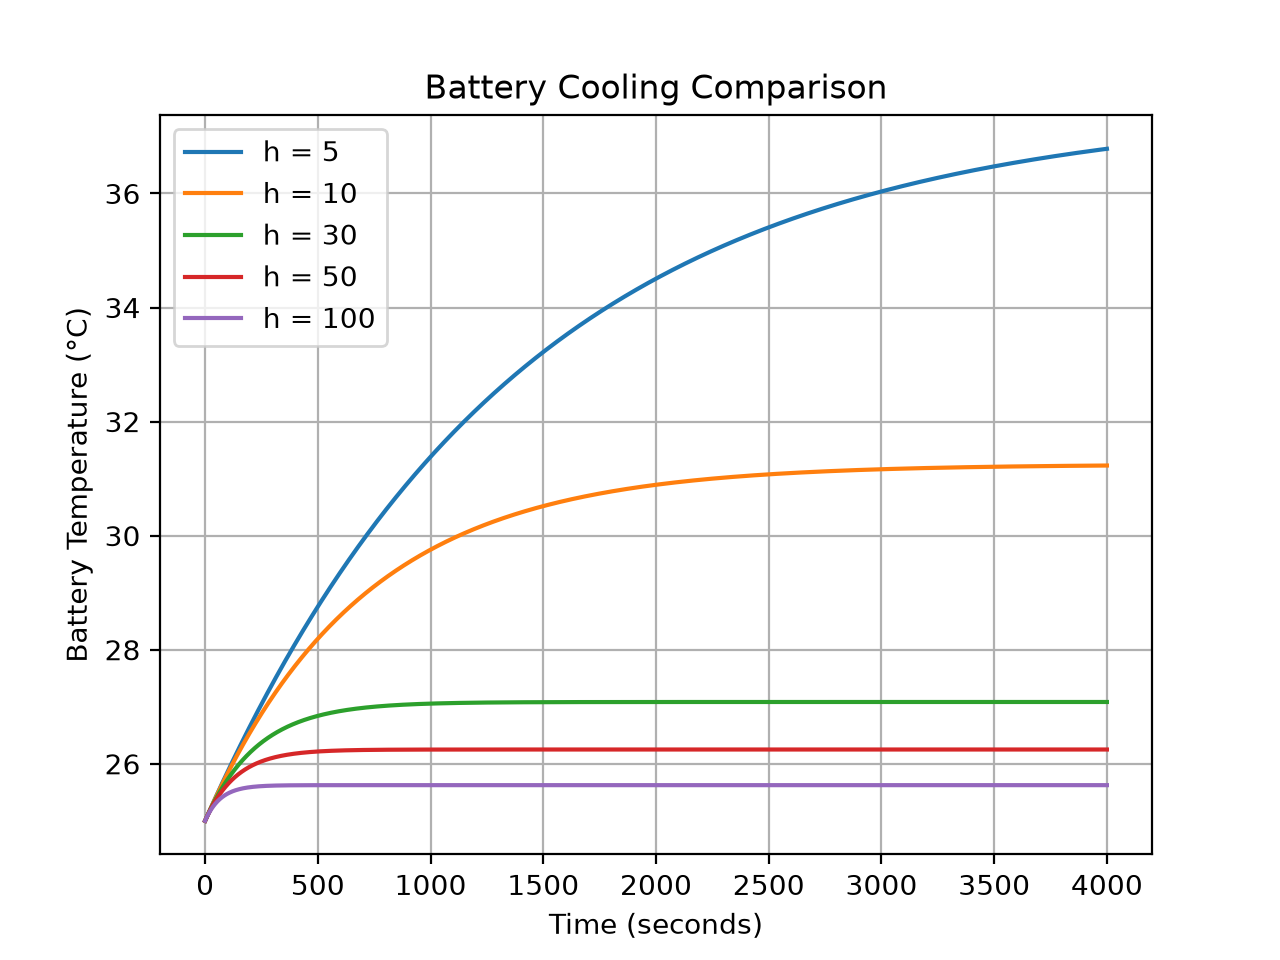
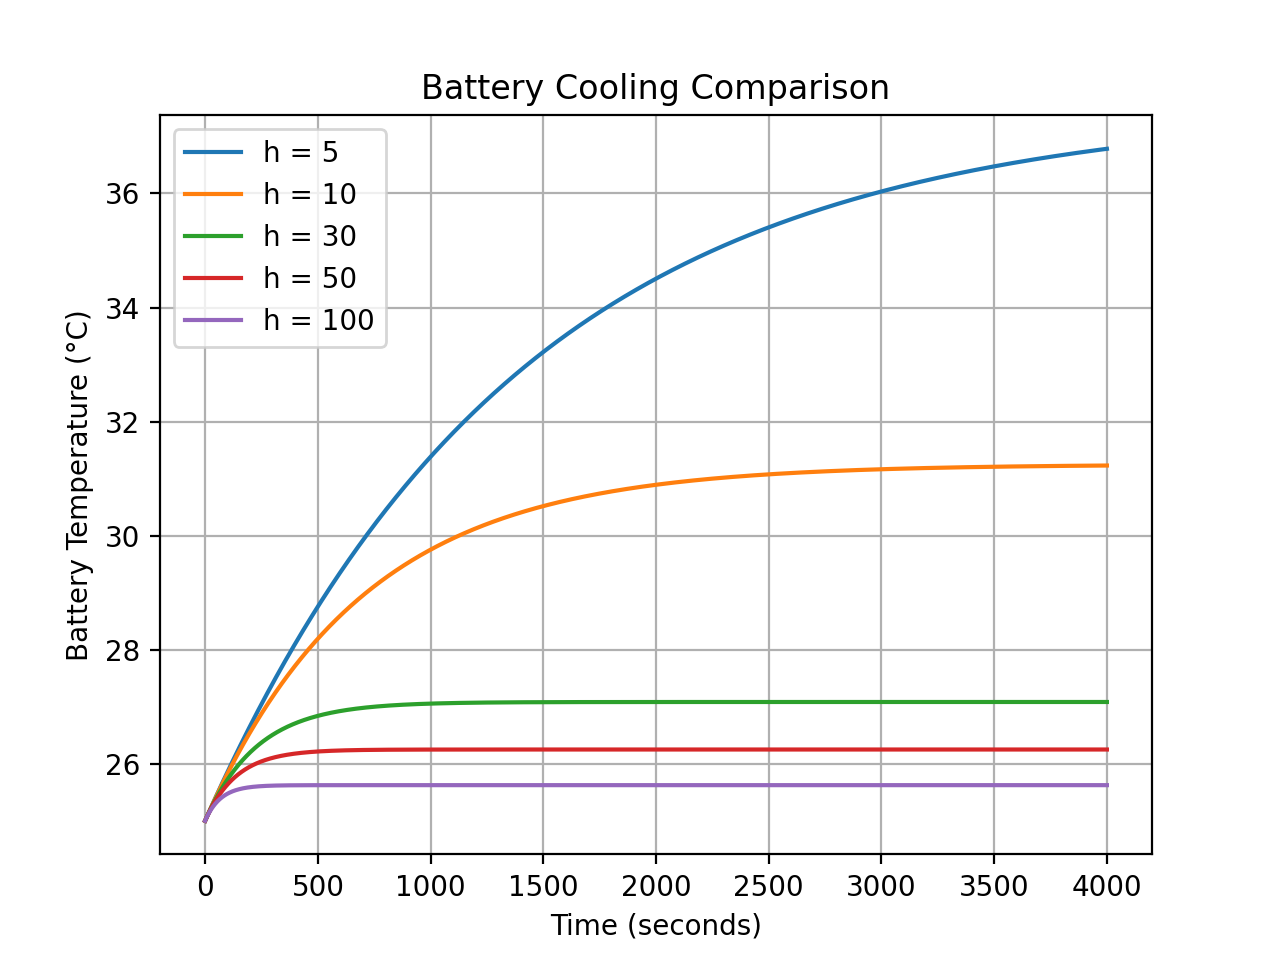
Add cooling coefficient comparison and error analysis

diff --git a/cooling_coefficient_comparison.py b/cooling_coefficient_comparison.py
@@ -1,0 +1,95 @@
+#here we will see how different values of h can effect temperatures
+import numpy as np
+import matplotlib.pyplot as plt
+# Battery properties
+mass = 0.070
+specific_heat = 1000
+resistance = 0.025
+current = 5
+# Environmental properties
+ambient_temperature = 25
+surface_area = 0.01
+initial_temperature = 25
+
+h_values = [5,10,20,25,30,50]
+time_step=1
+total_time = 10000
+time_values = np.arange(0, total_time + time_step, time_step)
+plt.figure(figsize=(10,6))
+for h in h_values:
+
+    temperature = initial_temperature
+    temperature_history = [temperature]
+
+    for t in time_values[1:]:
+
+        heat_generation = current**2 * resistance
+
+        heat_loss = h * surface_area * (temperature - ambient_temperature)
+
+        net_heat = heat_generation - heat_loss
+
+        temperature_change = (net_heat / (mass * specific_heat)) * time_step
+
+        temperature = temperature + temperature_change
+
+        temperature_history.append(temperature)
+    
+    plt.plot(time_values, temperature_history, label=f"h = {h}")
+
+    print(f"h = {h} | Final Temperature = {temperature:.2f} °C")
+
+plt.xlabel("Time (s)")
+plt.ylabel("Temperature (°C)")
+plt.title("Battery Temperature for Different Cooling Coefficients")
+plt.legend()
+plt.grid(True)
+plt.savefig("cooling_coefficient_comparison.png", dpi=300)
+plt.show()
+
+
+print("\nTheoretical Steady-State Temperatures")
+
+for h in h_values:
+
+    steady_state_temperature = (
+        ambient_temperature
+        + (current**2 * resistance) / (h * surface_area)
+    )
+
+    print(f"h = {h} | T_ss = {steady_state_temperature:.2f} °C")
+
+
+
+results = {}
+
+for h in h_values:
+
+    temperature = initial_temperature
+    temperature_history = [temperature]
+
+    for t in time_values[1:]:
+
+        heat_generation = current**2 * resistance
+        heat_loss = h * surface_area * (temperature - ambient_temperature)
+
+        net_heat = heat_generation - heat_loss
+        temperature_change = (net_heat / (mass * specific_heat)) * time_step
+
+        temperature += temperature_change
+        temperature_history.append(temperature)
+
+    results[h] = temperature
+
+print("\nSteady-State Error Analysis")
+
+for h in h_values:
+
+    theoretical = ambient_temperature + (current**2 * resistance) / (h * surface_area)
+    simulated = results[h]
+
+    error = abs(theoretical - simulated)
+    percentage_error = error / theoretical * 100
+
+    print(f"h = {h} | Theoretical = {theoretical:.3f} °C | "
+          f"Simulated = {simulated:.3f} °C | Error = {percentage_error:.3f}%")

diff --git a/steady_state_analysis.py b/steady_state_analysis.py
@@ -1,0 +1,39 @@
+import matplotlib.pyplot as plt
+#battery parameters
+ambient_temp = 25.0        # Ambient temperature in degrees Celsius
+current = 5.0             # Current in amperes (A)
+resistance = 0.025        # Internal resistance in ohms (Ω)
+surface_area = 0.01         # Surface area in square meters (m²)
+#list containing different values of h
+h_values = [1,2,3,4,5, 10, 20, 30, 50, 100]  # Heat transfer coefficients in W/(m² K)
+def calculate_steady_state_temperature(ambient_temp, current, resistance, h, surface_area):
+    """
+    Calculate the steady-state temperature of the battery.
+
+    Parameters:
+    ambient_temp (float): Ambient temperature in degrees Celsius.
+    current (float): Current in amperes (A).
+    resistance (float): Internal resistance in ohms (Ω).
+    h (float): Heat transfer coefficient in W/(m² K).
+    surface_area (float): Surface area in square meters (m²).
+
+    Returns:
+    float: Steady-state temperature in degrees Celsius.
+    """
+    heat_generation = current**2 * resistance
+    steady_state_temp = ambient_temp + heat_generation / (h * surface_area)
+    return steady_state_temp
+#calculations of equilibrium temperatures
+steady_temperatures=[]
+for h in h_values:
+    steady_state_temp = calculate_steady_state_temperature(ambient_temp, current, resistance, h, surface_area)
+    steady_temperatures.append(steady_state_temp)
+    print(f"Steady-state temperature for h = {h} W/(m² K): {steady_state_temp:.2f} °C")
+
+#plotting of the results
+plt.plot(h_values, steady_temperatures, marker='o')
+plt.xlabel("Heat Transfer Coefficient (h) [W/(m² K)]")
+plt.ylabel("Steady-State Temperature (°C)")
+plt.title("Steady-State Temperature vs Heat Transfer Coefficient")
+plt.grid()
+plt.savefig("steady_state_temperature.png", dpi=200)
